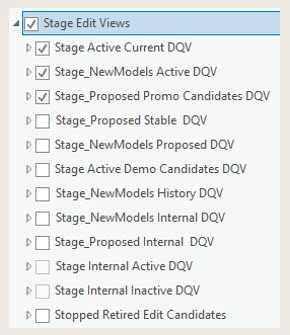
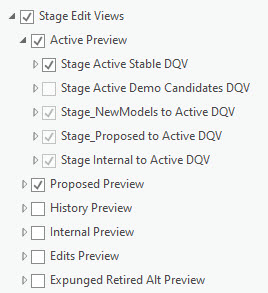
modified:   model_management/images/stage_edit_views.jpg 	modified:   model_management/index.htm

Changed region(s): [[0.0299, 0.0307, 0.9851, 0.9829]]

diff --git a/model_management/index.htm b/model_management/index.htm
@@ -36,7 +36,7 @@
   <h3 class="section_title"></h3>  <!-- Optional: would be the tile of the intro chapter. -->
     <h1 class="title">Managing the Building Model Collection using ArcGIS Pro</h1>
   
-<p style="background-color:khaki"><b>This page is currently under development! </b>  <br>December 22, 2021.</p> 
+<p style="background-color:khaki"><b>This page is currently under development! </b>  <br>December 27, 2021.</p> 
 
     <p>This page provides an overview of the procedures and tools for managing the collection of 3D models of buildings, bridges, walls and docks as part of a city model within the <a href="../home.index.htm">citySchema.org framework for developing, sharing and preserving city model assets</a>.
     </p><p> 
@@ -598,31 +598,38 @@ Stages in the lifecycle of a model management workspace are depicted in the slid
       The way we avoid this problem is by setting up the Stage feature classes so that any attribute edits including status changes may be made in the Stage feature classes, where they may be reviewed and made logically consistent.  Deletions of models from the collection are flagged by setting the <b>Model Status</b>  to <b>Retired</b> or to <b>Expunge</b>. When the next edition is published, the models in the Stage feature classes are routed to their new feature classes using the <b>StatusRouter</b> tool, which is discussed in more detail below.
       </p>
       <p>
-      <h3>The Stage Edit Views</h3>
-      <p>The process of updating the status of models can be confusing, since it is often the case that new models completely cover previous models.  It is helpful to be able to turn classes of models on and off according to their new status values.  This can be troublesome, because the Active_MP layer with its 140,000 models takes a long time to draw.  Many hours of trying to work around these awkward problems has led to the development of a set of <a href="https://pro.arcgis.com/en/pro-app/latest/help/mapping/layer-properties/definition-query.htm" target="arcdoc">Definition Query Views</a> that sort the features in the Stage feature classes into previews of the target feature classes.   The neat thing about this is that picking a new status for a model causes the model to immediately disappear from one definition query view and appear in another with the appropriate symbology.  This allows a very convenient way of checking the logical consistency of the collection as we are updating it. 
-      </p>
+      
       <div class="feature tour">
+        <h3>The Stage Edit Views</h3>
+        <figure class="right">
+          <img  src="./images/stage_edit_views.jpg">
+          <figcaption>The Stage Edit Views Permit the Quick Toggling of Features according to their new Status values.</figcaption>
+        </figure>
+        <p>The process of updating the status of models can be confusing, since it is often the case that new models completely cover previous models.  It is helpful to be able to turn classes of models on and off according to their new status values.  This can be troublesome, because the Active_MP layer with its 140,000 models takes a long time to draw.  Many hours of trying to work around these awkward problems has led to the development of a set of <a href="https://pro.arcgis.com/en/pro-app/latest/help/mapping/layer-properties/definition-query.htm" target="arcdoc">Definition Query Views</a> that sort the features in the Stage feature classes into previews of the final sorted feature classes.   The neat thing about this is that picking a new status for a model causes the model to immediately disappear from one definition query view and appear in another with the appropriate symbology.  This allows a very convenient way of checking the logical consistency of the collection as we are updating it. 
+        </p>
+
       <h3>Explore the Stage Edit Views</h3>
-      <figure class="right">
-        <img  src="./images/stage_edit_views.jpg">
-        <figcaption>The Stage Edit Views Permit the Quick Toggling of Features according to their new Status values.</figcaption>
-      </figure>
-      <p>The Stage Edit Views have <b>DQV</b> appended to their names so that you don't forget that their contents are filtered by definition queries.  
-      </p><p>
-        With practice you will discover how to turn specific layers on and off to expose, for example, the models that have a value of Current or Under Construction from the Active, Proposed or New Models  feature classes.
-        This combination of definition query views makes it easy to check the logical consistency of the models involved and to spot models that need to be modified.  When such a model is discovered, its Status might be set to <b>Demolished</b> which wil cause this model to disappear from the view and appear in the <B>Active Demo Candidates DQV</b> view.   
-        </p><p>
-        To examine new models that have a status of <b>Board Approved</b> or <b>Permitted</b> you may want to leave the <B>Active Stable DQV</b>  turned on, while the <B>Active Demo Candidates DQV</b> is unchecked.  Turn on the <b>Proposed Stable DQV</b>, and the <b>New Models Proposed DQV</b>, which should expose any conflicts between the New Models feature class with models in the Proposed feature class -- that may need to have therir status set to <b>Superseded Proposal</b>.  Adjusting the status this way wil cause the affected model to jump to the <b>Proposed Internal DQV</b>.  
-      </p>
+      <p>The illustration to the right shows how the stage edit views use group layers and definition query views to sort the Stage feature classes into group layers that simulate the final status layers.  
+      <p>The <b>Stage_Active_MP</b> feature class is further broken down into the <b>Stable</b> features (those that continue to have a status of Current) and <b>Demolition Candidates</b> those that have a status that is some variation of <b>Demolished</b> It is handy to be able to toggle the demo candidates with the models in the <b>Proposed Preview</b> group layer while checking to make sure that your updates are logically consistent. 
+      <p>Working with these layers while making updates takes some practice. You may decide to modify these definition queries once you have fooled around with these.  
       </div>
+
+      <div class="feature funfact">
 <h3>Regenerating or Modifying the Stage Edit Layers</h3>
 <p> It is inevitable that you will lose or want to modify or recover one or more Stage Edit Views.  The masters of the current working version of the entire group layer is stored in the <b>ArcDocs/Layers</b> folder in the current Model Management workspace. If you make changes to yours, be sure to save the group layer there!    
 </p><p>
   It took a while for me to figure out that it is very important to uncheck the the option <b>Remove layers that have been overwritten by geoprocessing tools</b> in the ArcGIS Pro <b>Project > Geoprocessing</b> Options.  Otherwise these layers keep disappearing!  
 </p> 
-  
-  
-
+<h3>Odd behavior of Sticky Definition Querys</h3>
+<p>At ArcGIS Pro 2.9 we have a problem of queries that seem to be edited but then revert back totheir old values once you save them.  I have found that it is sometimes helpful to:
+  <ol>
+    <li>Change the query
+    <li>Then click the green checkmark above the query window.
+    <li>Look at the values againtomake sure that they reflect your changes.
+    <li>If not, remove the query and build a new one from scratch.
+  </ol>
+</div>
+     
       <div class="feature funfact">
      <h3>Never Delete Models from the Stage Feature Classes</h3>
      <p>The principle of reversibility for all edits made in this model collection management workflow requires that models not be deleted from any of the Stage feature classes.  To prevent a model from making it to the next edition, you can set its status to <b>Retired</b> which is the normal procedure.  Or for models that are exact duplicates or corrupted, you can set the status to <b>Expunge</b>, which will cause the model to be ignored by the <b>Status Router</b> tool when the next edition is produced.   
@@ -635,9 +642,9 @@ Stages in the lifecycle of a model management workspace are depicted in the slid
 <p>Enough chitchat.  Lets continue updating the collection!</p>
 
      <h3>Visit Each New Model</h3>
-     The process of updating the model collection begins by visiting each of the new models in <b>Stage_NewModels_MP</b> and investigating its context among the other models in the collection. Information sources such as aerial photos and the <b>Development_Log</b> may be consulted to see if current models may be candidates for promotions or demotions in their status.  During this process you will discover that pre-existing models may require updates to their <b>Model Status</b> attributes, or may require 3D edits. 
-   </p>
-  
+     <p>Assuming that you have imported some new models, and appended them to the <b>Stage_NewModels_MP</b> feature class, a usefulway of structuring the task of integrating these is to zoom to each one.  A handy way of doing this is to open the attribute table of unfiltered NewModels feature class, sort it according to its Object_ID, then zoom to each model.  While you are looking at it in the 3D Scene, you can check sources like aerial photography (links provided in the model attributes.)  This will confirm the model status and the demolition status of the other buildings in its context. Some of these extant models may require edits to make them logically consistent with the new models. 
+
+ 
       <h3>Check Proposed Models for Construction / Demolition Activity</h3>
 
         Notice that Proposed models that have changed their status to <b>Under Construction</b>     
@@ -669,19 +676,19 @@ Stages in the lifecycle of a model management workspace are depicted in the slid
      </div>
 
      <h3>Promote Status of Proposed Models</h3>
-      <p>Reviewing all of the new models and their context wil have led to many changes in other feature classes.  But there may be other changes needed to reflect the advancement of projects through the design review process.  These changes canbe found by comparing the value of <b>Status</b> with the <b>Project Status</b> attribute in the Development Log.  The fact that the Stage_Proposed_MP attribute table is already joined to the Development_Log makes this fairly easy to do.  Select by attribute queries or new definition query views can be created to highlight models that are candidates for promotion or demotion based on the comparison of the value Model Status to the latest Project Status.  These change candidates should be checked one-by one.  With reference to the most current aerials.  Then the same update procedure as described above, can be carried out. 
+      <p>Reviewing all of the new models and their context will have led to many changes in other feature classes.  There may be other changes needed to reflect the advancement of projects through the design review process.  These changes can be found by looking at models in the <b>Stage_Proposed_MP</b> and <b>Stage_Internal_MP</b> feature classes and comparing the value of <b>Status</b> in these feature classes with the <b>Project Status</b> attribute in the Development Log.  To facilitate this, it may be helpfulto join these feature classes with the current Development Log using the <b>Project ID</b>. Select by attribute queries or new definition query views can be created to highlight models that are candidates for promotion or demotion.  These change candidates should be checked one-by one.  With reference to the most current aerials.  Then the same update procedure as described above, can be carried out. 
       </p>
       <p>
-        Remember that the values of <B>Appear Date</b> and <b>Appear Source</b> attributes should also be updated to reflect the change in status. 
-        </p><p> It's possible that new models that you have imported call for changes in status to proposed models.  For example, where a new model supersedes an earlier proposal.
+        Remember that the values of <B>Appear Date</b>, <b>Appear Source</b>, <b>Disapp_Dt</b> and <b>Disapp_Src</b> attributes should also be updated to reflect the change in status while you have all of the source material at hand. 
         </p>
 
-     <!-- h3>Don't forget to update the edit fields!</h3>
-     <p>As described in the data dictionary, the Reord Modification fields are updated automatically by ArcGIS.  These are very useful for traching and sorting recent modifications.  For better or worse, there is no way to stop these fields from being re-set when the model collection is migrated to the next edition.  Yet, it is important for users and managers tobe able to understand the changes that have been made to the models and their attributes.  Therefore, it is up to you to set the values for <b>Editor</b>, <b>Edit Date</b> and <b>Edit Action</b>.  
+     <h3>Don't forget to update the edit fields!</h3>
+     <p>As described in the data dictionary, the Record Modification fields are updated automatically by ArcGIS.  These are very useful for traching and sorting recent modifications.  For better or worse, there is no way to stop these fields from being re-set when the model collection is migrated to the next edition.  Yet, it is important for users and managers tobe able to understand the changes that have been made to the models and their attributes.  Therefore, it is up to you to set the values for <b>Editor</b>, <b>Edit Date</b> and <b>Edit Action</b>.  
      </p><p>
-      Most of the <b>Edit Actions</b> that happen to the stage feature classes during the staging process can be described as "Updated Status Attributes". The <b>3b. Update Edit Fields</b> tool facilitates updating the Edit fields by letting you select a date/time that reflects the time when you began your staging procedures.  You can fill in your user name and a value for <b>Edit Action</b> and the tool will update the edit fields for each of the five stage feature classes.  This tool uses a clever trick to copy the Record Update time stamp before it gets over-written due to the update of the edit fields.  This means that you are still able to order the records according to when the update actually happened by using the static <b>Edit Date</b> field.
-     </p -->
-
+      Most of the <b>Edit Actions</b> that happen to the stage feature classes during the staging process can be described as "Updated Status Attributes". The <b>Update Edit Fields</b> task facilitates updating the Edit fields by looking for records in each of the Stage feature classes (except for Stage_NewModels_MP) that have a Record Modify date later than both the Recode Init Date and the Edit Date. These are records that have been modified during at somepoint inthe lifespan of the ModelMgt workspace, but that have not yet had their edit fields updated.  These records have a new Edit Date assigned and the value of Edit User is set to be the same as the Record Modified user.  
+     </p><p>
+       It would be cool to be able to preserve the original Record Modified date, but unfortunately ArcGis updates the modification date before doing the modification.  
+       
 <hr>
 
       <h1 id="edit">Model Editing Workflows</h1>
